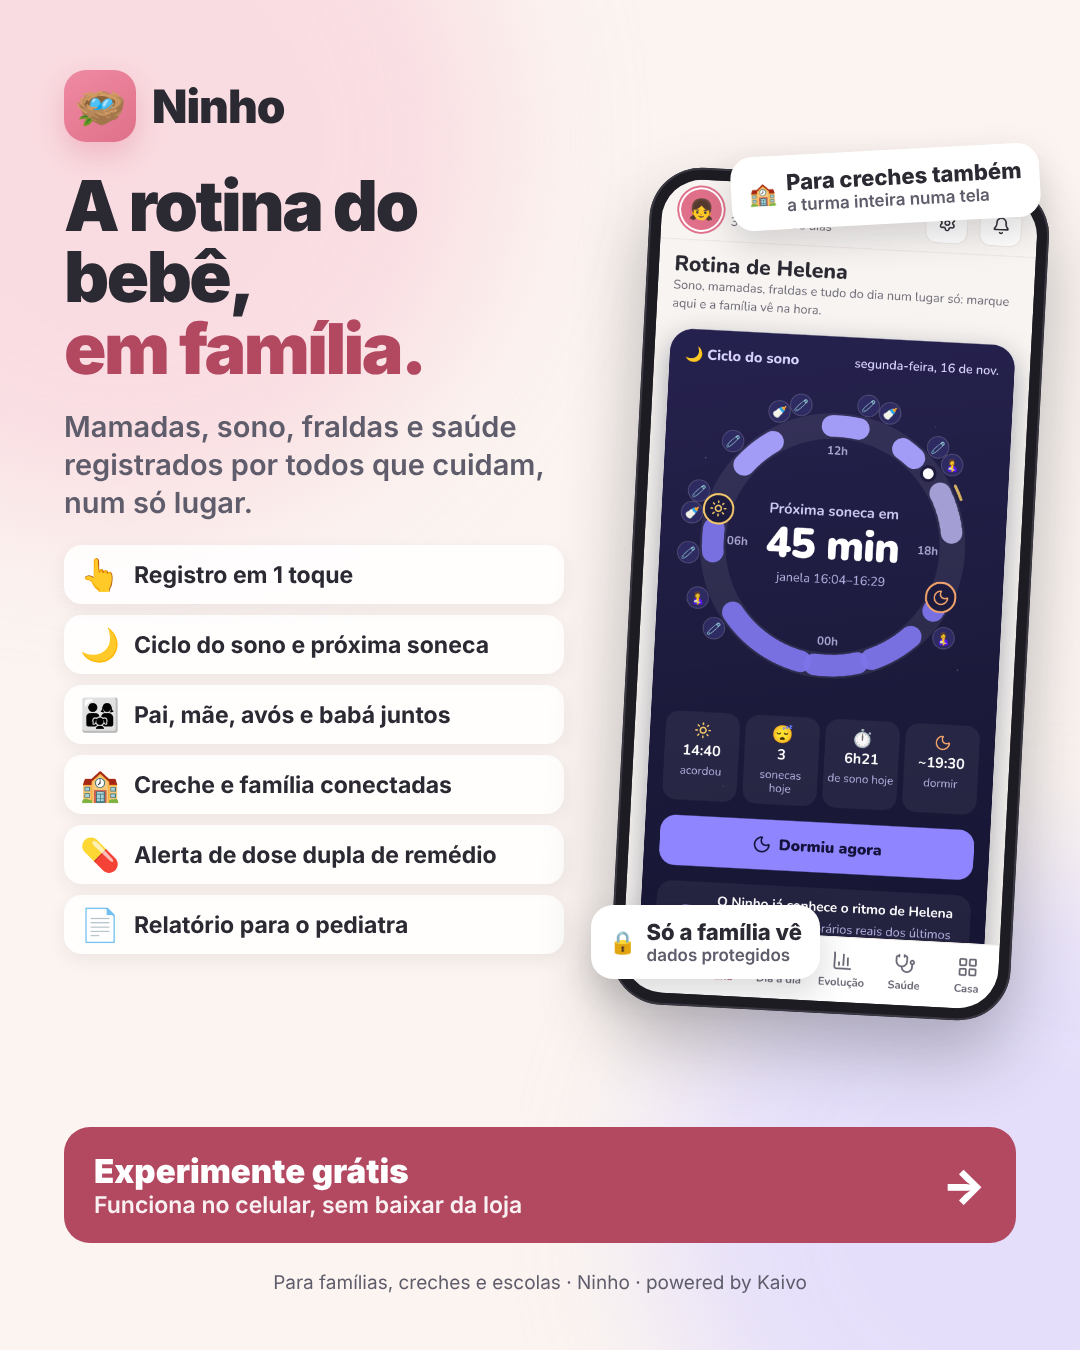
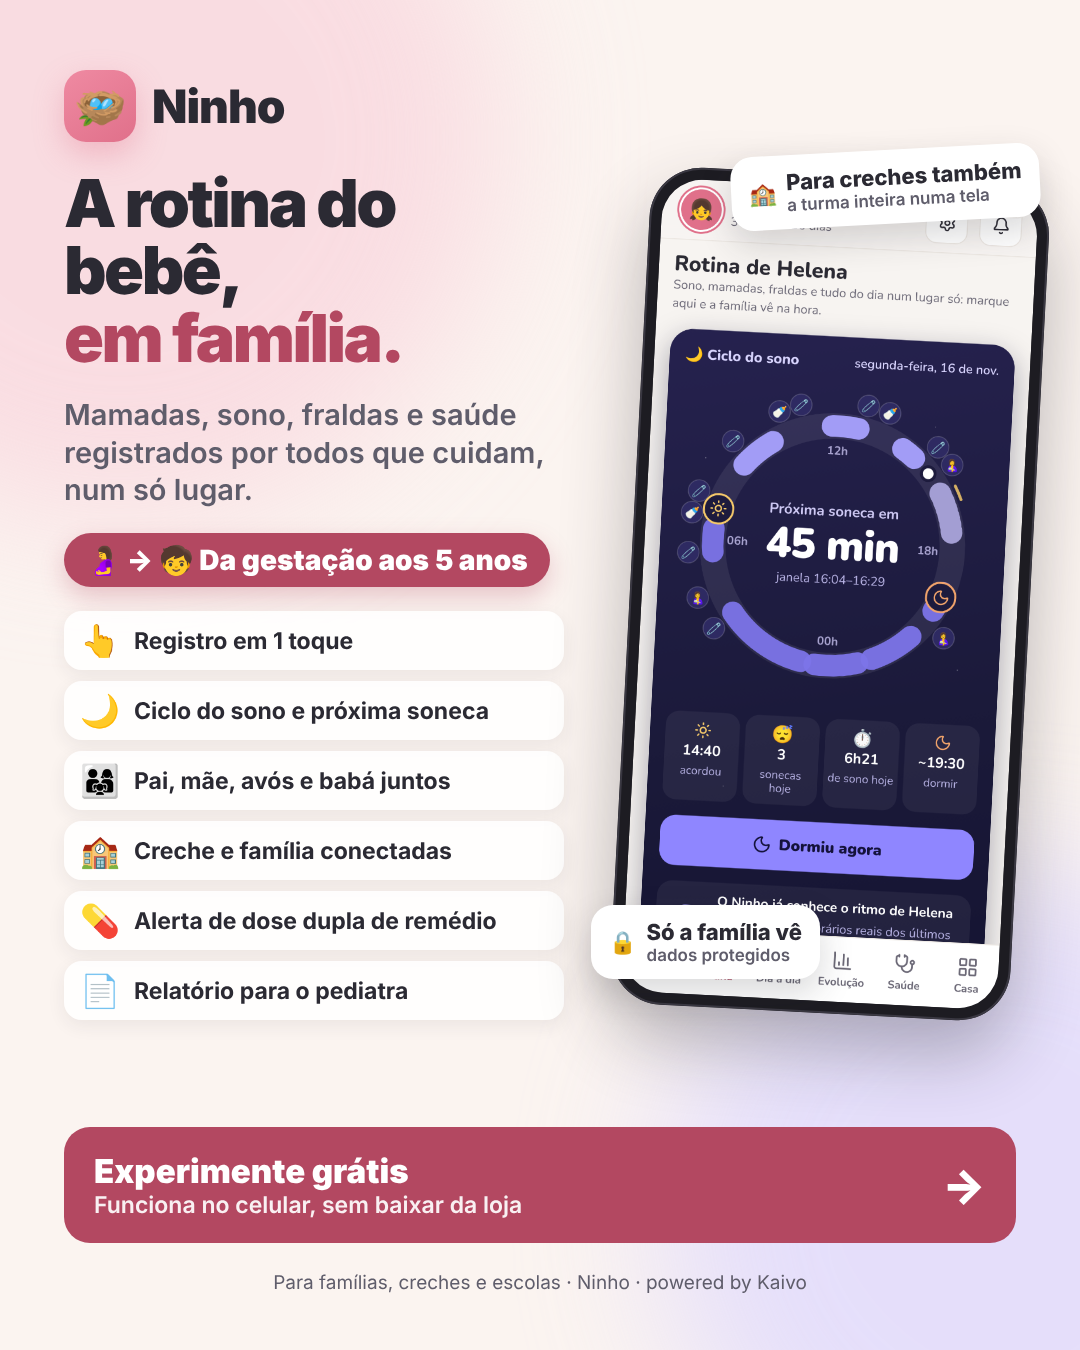
Divulgação: selo "Da gestação aos 5 anos" nas artes de feed e story
Claude-Session: https://claude.ai/code/session_01FH7kzktZrdr3M3CLyK9355

Changed region(s): [[0.0611, 0.1244, 0.5194, 0.5911], [0.0611, 0.6222, 0.4583, 0.7467]]

diff --git a/divulgacao/arte.html b/divulgacao/arte.html
@@ -22,6 +22,8 @@
   .item span { font-size: 32px; }
   .fone { position: absolute; width: 360px; border-radius: 52px; background: #1d1c22; padding: 12px; box-shadow: 0 34px 70px rgba(43,42,51,.32), inset 0 0 0 2px #3a3842; }
   .fone img { display: block; width: 100%; border-radius: 41px; }
+  .idade { display: inline-flex; align-items: center; gap: 10px; align-self: flex-start; background: var(--brand-forte); color: #fff; font-weight: 900; font-size: 28px; border-radius: 999px; padding: 10px 22px; box-shadow: 0 10px 24px rgba(179,72,97,.28); }
+  .idade small { font-weight: 700; opacity: .9; font-size: 22px; }
   .cta { display: flex; align-items: center; justify-content: space-between; gap: 20px; background: var(--brand-forte); color: #fff; border-radius: 26px; padding: 24px 30px; }
   .cta b { font-size: 33px; font-weight: 900; display: block; }
   .cta small { font-size: 23px; opacity: .92; font-weight: 600; }
@@ -34,7 +36,7 @@
   #feed { width: 1080px; height: 1350px; }
   #feed .conteudo { padding: 70px 64px 56px; gap: 28px; }
   #feed .texto { width: 500px; display: flex; flex-direction: column; gap: 24px; }
-  #feed h1 { font-size: 70px; }
+  #feed h1 { font-size: 66px; }
   #feed .sub { font-size: 29px; }
   #feed .item { font-size: 24px; padding: 11px 16px; }
   #feed .f1 { right: 50px; top: 175px; width: 400px; transform: rotate(3deg); }
@@ -48,12 +50,13 @@
   #story { width: 1080px; height: 1920px; }
   body.so-feed #story, body.so-story #feed { display: none; }
   #story .conteudo { padding: 110px 72px 90px; gap: 30px; align-items: center; text-align: center; }
-  #story h1 { font-size: 88px; }
+  #story h1 { font-size: 84px; }
+  #story .conteudo { gap: 26px; }
   #story .sub { max-width: 860px; }
-  #story .fones { position: relative; width: 100%; height: 820px; margin: 10px 0 0; }
-  #story .f1 { left: 380px; top: 0; width: 380px; transform: rotate(4deg); z-index: 2; }
-  #story .f2 { left: 90px; top: 70px; width: 340px; transform: rotate(-6deg); z-index: 1; }
-  #story .f3 { left: 660px; top: 120px; width: 320px; transform: rotate(9deg); z-index: 0; }
+  #story .fones { position: relative; width: 100%; height: 760px; margin: 0; }
+  #story .f1 { left: 395px; top: 0; width: 340px; transform: rotate(4deg); z-index: 2; }
+  #story .f2 { left: 115px; top: 60px; width: 305px; transform: rotate(-6deg); z-index: 1; }
+  #story .f3 { left: 680px; top: 100px; width: 290px; transform: rotate(9deg); z-index: 0; }
   #story .lista { width: 100%; display: grid; grid-template-columns: 1fr 1fr; gap: 14px; text-align: left; }
   #story .cta { width: 100%; margin-top: auto; text-align: left; }
 </style>
@@ -68,6 +71,7 @@
     <div class="texto">
       <h1>A rotina do bebê,<br><em>em família.</em></h1>
       <p class="sub">Mamadas, sono, fraldas e saúde registrados por todos que cuidam, num só lugar.</p>
+      <span class="idade">🤰 → 🧒 Da gestação aos 5 anos</span>
       <div class="lista">
         <div class="item"><span>👆</span> Registro em 1 toque</div>
         <div class="item"><span>🌙</span> Ciclo do sono e próxima soneca</div>
@@ -94,6 +98,7 @@
     <div class="marca"><span class="logo">🪺</span> Ninho</div>
     <h1>Quem cuida junto,<br><em>cuida melhor.</em></h1>
     <p class="sub">A rotina do bebê compartilhada por toda a família, no celular de cada um.</p>
+    <span class="idade" style="align-self: center">🤰 → 🧒 Da gestação aos 5 anos</span>
     <div class="fones">
       <div class="fone f2"><img src="../video/telas/08-hoje.png" alt=""></div>
       <div class="fone f3"><img src="../video/telas/24-turma.png" alt=""></div>
